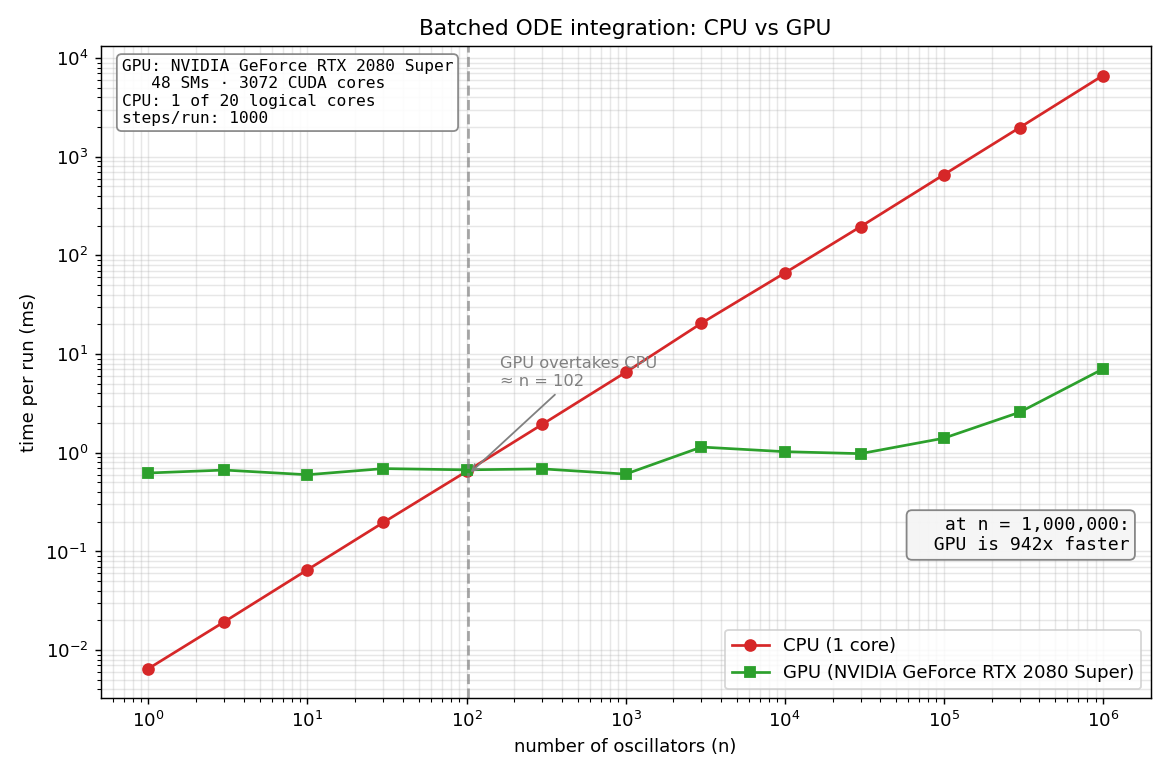
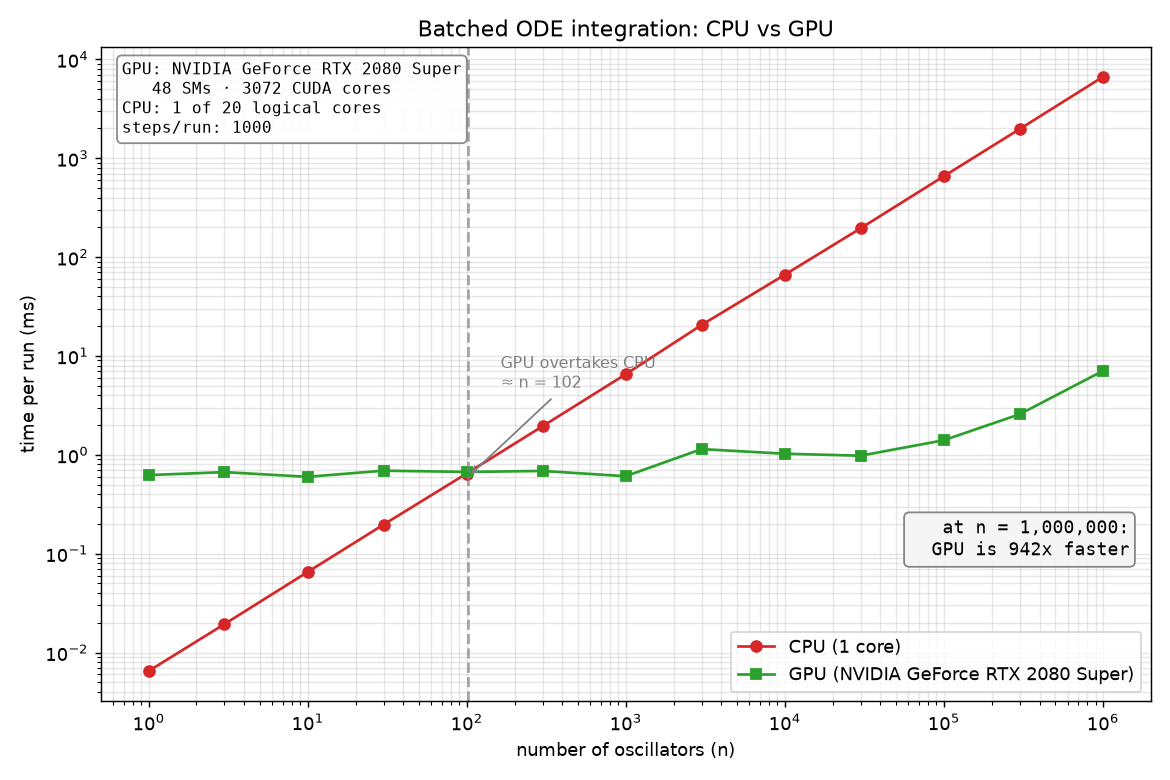
Finalize project: refresh graph/tables, clean stray root artifacts
- Regenerate benchmark.png from the committed 1M results (942x peak,
  crossover n=102) and sync the README/REPORT tables to those numbers.
- Remove the accidental repo-root benchmark.png and results.csv, and
  gitignore /benchmark.png and /results.csv so a run from the root can't
  re-add them.
- Feature the project and its graph in the top-level README.

diff --git a/cuda-hpc/01_parallel_ode_integrator/REPORT.md b/cuda-hpc/01_parallel_ode_integrator/REPORT.md
@@ -50,10 +50,10 @@ order, or all at once.
 
 | n | CPU 1-core (ms) | GPU (ms) | Speedup |
 |--:|--:|--:|--:|
-| 1,000 | 6.53 | 0.66 | 9.9× |
-| 10,000 | 67.1 | 1.00 | 67× |
-| 100,000 | 656.7 | 1.32 | 499× |
-| 1,000,000 | 6538 | 7.25 | **902×** |
+| 1,000 | 6.53 | 0.61 | 10.7× |
+| 10,000 | 66.3 | 1.03 | 65× |
+| 100,000 | 657.2 | 1.40 | 468× |
+| 1,000,000 | 6643 | 7.05 | **942×** |
 
 All GPU results are verified bit-for-bit against the single-core CPU reference
 (`match = OK` on every row). The sweep runs from n = 1 to n = 10⁶.
@@ -108,7 +108,7 @@ The GPU wins once its overhead is cheaper than the CPU's linear work:
 L  ≈  T_cpu(n*)  =  c · n* · S      ⇒      n*  ≈  L / (c · S)
 ```
 
-Measured crossover: **n\* ≈ 107**. Below it, the single core is faster because
+Measured crossover: **n\* ≈ 102**. Below it, the single core is faster because
 the GPU's fixed overhead `L` dominates a tiny workload; above it, the GPU's
 parallelism takes over.
 
@@ -120,7 +120,7 @@ speedup = T_cpu / T_gpu  →  (n·S) / (n·S/P + Θ(n))  ≈  P / (1 + P/S)
 ```
 
 With `S = 1000` and `P = 3072`, memory transfer (the `Θ(n)` term) starts to
-bite, which is why the observed 902× is below the raw core count of 3072 — the
+bite, which is why the observed 942× is below the raw core count of 3072 — the
 classic lesson that on the GPU, **moving data, not doing math, is often the
 bottleneck** (this problem does only ~1000 flops per oscillator but must ship
 every oscillator across the bus). More arithmetic per byte (e.g. RK4, or more

diff --git a/cuda-hpc/01_parallel_ode_integrator/README.md b/cuda-hpc/01_parallel_ode_integrator/README.md
@@ -19,14 +19,14 @@ bit-for-bit against the CPU reference.
 
 | n | CPU 1-core (ms) | GPU (ms) | Speedup |
 |--:|--:|--:|--:|
-| 1,000 | 6.53 | 0.66 | 9.9× |
-| 10,000 | 67.1 | 1.00 | 67× |
-| 100,000 | 656.7 | 1.32 | 499× |
-| 1,000,000 | 6538 | 7.25 | **902×** |
+| 1,000 | 6.53 | 0.61 | 10.7× |
+| 10,000 | 66.3 | 1.03 | 65× |
+| 100,000 | 657.2 | 1.40 | 468× |
+| 1,000,000 | 6643 | 7.05 | **942×** |
 
 The GPU line is nearly flat until the hardware saturates (thousands of cores sit
 idle at small n), while the single-core CPU rises linearly. They cross at about
-**n = 107** — below that the GPU's transfer + launch overhead isn't worth it.
+**n = 102** — below that the GPU's transfer + launch overhead isn't worth it.
 
 📄 **See [REPORT.md](REPORT.md)** for the full write-up: time-complexity analysis,
 why the curves behave as they do, and a recap of the CUDA concepts.
